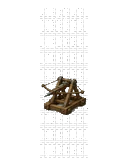
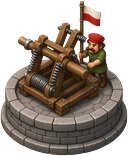
v4.9: new Balista art, slower heavier bolts

diff --git a/game.js b/game.js
@@ -3,7 +3,7 @@
 'use strict';
 (() => {
 // ====== KONFIGURACJA ======
-const V = '4.8';
+const V = '4.9';
 const W = 360, H = 560;
 const Q = new URLSearchParams(location.search);
 const DEBUG = Q.has('debug');
@@ -20,7 +20,7 @@ const TT = {
   smo: {name:'Kocioł smoły', desc:'Spowalnia i parzy wszystkich w pobliżu', cost:[85,75,120], dmg:[5,9,14], rate:[.95,.88,.8], range:[66,74,82], slow:[.3,.4,.5]},
   kus: {name:'Kusznicy', desc:'Bełty przebijają kolczugi (zbroja −50%)', cost:[80,70,115], dmg:[18,28,42], rate:[.85,.74,.6], range:[100,110,120]},
   wil: {name:'Wilcze doły', desc:'Stawia się NA DRODZE. Rani i spowalnia przechodzących', cost:[70,65,110], dmg:[8,14,22], rate:[0,0,0], range:[18,20,22], slow:[.25,.35,.45], road:true, hp:[80,130,200]},
-  bal: {name:'Balista', desc:'Ciężki bełt, duży dystans, jeden cel', cost:[100,90,145], dmg:[40,68,105], rate:[2.1,1.9,1.65], range:[135,150,165]},
+  bal: {name:'Balista', desc:'Ciężki bełt, duży dystans, jeden cel', cost:[100,90,145], dmg:[80,130,200], rate:[4.2,3.8,3.3], range:[135,150,165]},
   mus: {name:'Muszkieterzy', desc:'Szybki ogień z muszkietów', cost:[75,65,115], dmg:[14,22,34], rate:[.62,.5,.38], range:[92,100,110]},
   arm: {name:'Armata', desc:'Wolna, rani wielu, przebija zbroje', cost:[125,105,175], dmg:[36,60,98], rate:[2.3,2.05,1.75], range:[105,115,125], splash:[40,46,54]},
   rus: {name:'Rusznica wałowa', desc:'Daleki strzał w najsilniejszego; przebija dwóch', cost:[115,100,165], dmg:[65,110,175], rate:[1.95,1.8,1.55], range:[150,165,180]},
@@ -30,8 +30,8 @@ const TT = {
   woz: {name:'Wóz bojowy', desc:'Tabor: wytrzymały bloker ze strzelcami', cost:[160,140,210], dmg:[18,28,42], rate:[.8,.7,.58], range:[85,92,100], block:true, hp:[200,340,520]},
 };
 const TKEYS = ['luc','smo','kus','wil','bal','mus','arm','rus','haj','kar','moz','woz'];
-const TW = {luc:[34,36,40], smo:[40,42,44], kus:[34,36,40], wil:[36,38,40], bal:[44,46,50], mus:[42,44,46], arm:[42,44,47], rus:[31,32,33], haj:[38,40,44], kar:[44,46,50], moz:[44,46,50], woz:[48,52,56]};
-const TOPF = {luc:[.4,.36,.3], smo:[.62,.62,.62], kus:[.4,.36,.3], wil:[.5,.5,.5], bal:[.3,.28,.25], mus:[.25,.25,.33], arm:[.2,.2,.21], rus:[.15,.15,.16], haj:[.45,.45,.45], kar:[.25,.22,.2], moz:[.2,.18,.12], woz:[.4,.4,.4]};
+const TW = {luc:[34,36,40], smo:[40,42,44], kus:[34,36,40], wil:[36,38,40], bal:[48,50,54], mus:[42,44,46], arm:[42,44,47], rus:[31,32,33], haj:[38,40,44], kar:[44,46,50], moz:[44,46,50], woz:[48,52,56]};
+const TOPF = {luc:[.4,.36,.3], smo:[.62,.62,.62], kus:[.4,.36,.3], wil:[.5,.5,.5], bal:[.38,.36,.34], mus:[.25,.25,.33], arm:[.2,.2,.21], rus:[.15,.15,.16], haj:[.45,.45,.45], kar:[.25,.22,.2], moz:[.2,.18,.12], woz:[.4,.4,.4]};
 
 // ====== WROGOWIE ======
 const ET = {
@@ -1075,15 +1075,17 @@ function update(dt) {
           damage(best, towerStat(t,'dmg'), 'mus'); burst(best.x, best.y-10, '#fff1a8', 3, 60, 2, .2); sfx('shot');
           smoke(mx, my, 1, 5);
         } else if (t.type === 'luc' || t.type === 'kus' || t.type === 'bal') {
-          const kx = t.x + Math.cos(t.ang)*10, ky = t.gy + Math.sin(t.ang)*10;
+          const bal = t.type === 'bal';
+          const kx = t.x + Math.cos(t.ang)*(bal?14:10), ky = t.gy + Math.sin(t.ang)*(bal?14:10);
           const dist = Math.hypot(best.x - kx, best.y - 12 - ky);
-          const spd = t.type === 'bal' ? 320 : t.type === 'kus' ? 380 : 340;
-          const dur = Math.max(.18, Math.min(.55, dist / spd));
+          const spd = bal ? 240 : t.type === 'kus' ? 380 : 340;
+          const dur = Math.max(bal ? .32 : .18, Math.min(bal ? .85 : .55, dist / spd));
           const lead = best.blockBy || best.stunT > 0 ? 0 : ET[best.type].spd * (best.slowT > 0 ? 1 - best.slowA : 1);
           const aim = lead ? posAt(best.d + lead * dur) : {x: best.x, y: best.y};
-          S.proj.push({sx:kx, sy:ky, tx:aim.x, ty:aim.y - 12, t:0, dur, dmg:towerStat(t,'dmg'), splash: t.type==='bal'?10:6,
-            src: t.type==='bal'?'bal':t.type==='kus'?'kus':'luc', kind: t.type==='luc'?'arrow':'bolt', hi:false});
+          S.proj.push({sx:kx, sy:ky, tx:aim.x, ty:aim.y - 12, t:0, dur, dmg:towerStat(t,'dmg'), splash: bal?16:6,
+            src: bal?'bal':t.type==='kus'?'kus':'luc', kind: t.type==='luc'?'arrow':(bal?'hbolt':'bolt'), hi:bal});
           sfx(t.type==='luc'?'arrow':'twang');
+          if (bal) { t.anim = 1; S.shake = Math.max(S.shake, 1.2); smoke(kx, ky, 3, 6); }
         } else if (t.type === 'kar') {
           const dmg = towerStat(t,'dmg'), splash = towerStat(t,'splash');
           S.tracers.push({x1:mx, y1:my, x2:best.x, y2:best.y-10, life:.1, max:.1, w:4, col:'255,200,100'});
@@ -1117,12 +1119,21 @@ function update(dt) {
     if (Math.random() < .5 && S.parts.length < 330) { const q = projPos(p); S.parts.push({x:q.x, y:q.y, vx:0, vy:-6, life:.35, max:.35, color: p.fall ? '#b8b0a4' : '#cfcac2', size:3, grav:0, kind:'smoke'}); }
     if (p.t >= p.dur) {
       p.done = true;
-      if (p.kind === 'arrow' || p.kind === 'bolt') {
+      if (p.kind === 'arrow' || p.kind === 'bolt' || p.kind === 'hbolt') {
         let hit = null, hd = p.splash + 14;
         for (const e of S.enemies) if (!e.dead) { const dd = Math.hypot(e.x - p.tx, e.y - 12 - p.ty); if (dd < hd) { hd = dd; hit = e; } }
         if (hit) damage(hit, p.dmg, p.src);
         else for (const e of S.enemies) if (!e.dead && Math.hypot(e.x-p.tx, e.y-p.ty) <= p.splash + 8) { damage(e, p.dmg, p.src); break; }
-        burst(p.tx, p.ty, '#d9c29a', 4, 55, 2, .22);
+        if (p.kind === 'hbolt') {
+          burst(p.tx, p.ty, '#c4a574', 10, 90, 3.2, .35);
+          burst(p.tx, p.ty, '#fff1c8', 6, 55, 2.4, .28);
+          smoke(p.tx, p.ty, 5, 8, '#bdb6aa');
+          S.parts.push({x:p.tx, y:p.ty, vx:0, vy:0, life:.28, max:.28, color:'#ffe7a0', size:18, grav:0, kind:'ring'});
+          S.shake = Math.max(S.shake, 2.6);
+          sfx('twang');
+        } else {
+          burst(p.tx, p.ty, '#d9c29a', 4, 55, 2, .22);
+        }
       } else {
         for (const e of S.enemies) if (!e.dead && Math.hypot(e.x-p.tx, e.y-p.ty) <= p.splash) damage(e, p.dmg, p.src);
         const big = p.src === 'moz' || p.fall;
@@ -1199,7 +1210,7 @@ function update(dt) {
 function projPos(p) {
   const k = Math.max(0, Math.min(1, p.t / p.dur));
   if (p.fall) return {x: p.sx + (p.tx - p.sx)*k, y: p.sy + (p.ty - p.sy)*k*k, gx: p.tx, gy: p.ty};
-  const arc = p.kind === 'arrow' ? 28 + p.dur*36 : p.kind === 'bolt' ? 18 + p.dur*28 : (p.hi ? 70 + p.dur*30 : 20 + p.dur*30);
+  const arc = p.kind === 'arrow' ? 28 + p.dur*36 : p.kind === 'hbolt' ? 36 + p.dur*42 : p.kind === 'bolt' ? 18 + p.dur*28 : (p.hi ? 70 + p.dur*30 : 20 + p.dur*30);
   const hgt = Math.sin(k*Math.PI) * arc;
   return {x: p.sx + (p.tx - p.sx)*k, y: p.sy + (p.ty - p.sy)*k - hgt, gx: p.sx + (p.tx - p.sx)*k, gy: p.sy + (p.ty - p.sy)*k + 12*(1-k)};
 }
@@ -1512,6 +1523,16 @@ function drawTower(c, t, time) {
     for (let k = 0; k < 3; k++) { const ph = (time*1.2 + k*.33 + t.seed) % 1; c.globalAlpha = (1-ph)*.6; circ(c, x - 5*s + k*5*s, cy - 2*s - ph*14*s, (1.5 + ph*3)*s, '#4b3b30', null); }
     c.globalAlpha = 1;
     if (anim > .5) { c.strokeStyle = 'rgba(255,140,30,.85)'; c.lineWidth = 2; c.beginPath(); c.ellipse(x, cy, 14 + (1-anim)*12, 5 + (1-anim)*4, 0, 0, 7); c.stroke(); }
+  } else if (type === 'bal') {
+    // odrzut / błysk przy strzale ciężkiego bełtu
+    if (anim > .35) {
+      c.save(); c.translate(x, gy - 2); c.rotate(t.ang);
+      const flash = (anim - .35) / .65;
+      c.globalAlpha = Math.max(0, 1 - flash) * .9;
+      circ(c, 18, 0, 5 + flash * 6, '#fff3a0', null);
+      circ(c, 22, 0, 2.5 + flash * 3, '#ffffff', null);
+      c.globalAlpha = 1; c.restore();
+    }
   } else if (type === 'kus') {
     // kusznik
     soldier(c, x, gy, t.ang, 0, .8, lvl == 2 ? '#7a2a1a' : '#6b4a2a', 0, lvl == 2 ? '#ffcc33' : '#2a62c9');
@@ -1729,20 +1750,32 @@ function render() {
   for (const p of S.proj) {
     if (p.t < 0) continue;
     const q = projPos(p);
-    if (p.kind === 'arrow' || p.kind === 'bolt') {
-      const k = Math.max(0.001, Math.min(1, p.t / p.dur));
+    if (p.kind === 'arrow' || p.kind === 'bolt' || p.kind === 'hbolt') {
       const q2 = projPos(Object.assign({}, p, {t: p.t - 0.016}));
       const ang = Math.atan2(q.y - q2.y, q.x - q2.x);
-      const len = p.kind === 'bolt' ? 14 : 11;
+      const heavy = p.kind === 'hbolt';
+      const len = heavy ? 28 : p.kind === 'bolt' ? 14 : 11;
+      const thick = heavy ? 4.2 : p.kind === 'bolt' ? 2.4 : 1.8;
       c.save(); c.translate(q.x, q.y); c.rotate(ang);
-      c.strokeStyle = p.kind === 'bolt' ? '#3a2a14' : '#5a3417'; c.lineWidth = p.kind === 'bolt' ? 2.4 : 1.8;
-      c.beginPath(); c.moveTo(-len*.45, 0); c.lineTo(len*.55, 0); c.stroke();
-      c.fillStyle = p.kind === 'bolt' ? '#6a4a28' : '#c41e3a';
-      c.beginPath(); c.moveTo(len*.55, 0); c.lineTo(len*.2, -2.4); c.lineTo(len*.2, 2.4); c.fill();
-      c.strokeStyle = '#e8e0cc'; c.lineWidth = 1;
-      c.beginPath(); c.moveTo(-len*.45, 0); c.lineTo(-len*.2, -2); c.moveTo(-len*.45, 0); c.lineTo(-len*.2, 2); c.stroke();
+      // shaft
+      c.strokeStyle = heavy ? '#4a3018' : p.kind === 'bolt' ? '#3a2a14' : '#5a3417';
+      c.lineWidth = thick; c.lineCap = 'round';
+      c.beginPath(); c.moveTo(-len*.48, 0); c.lineTo(len*.5, 0); c.stroke();
+      if (heavy) {
+        c.strokeStyle = '#6b4a28'; c.lineWidth = 2.2;
+        c.beginPath(); c.moveTo(-len*.4, 0); c.lineTo(len*.35, 0); c.stroke();
+      }
+      // tip
+      c.fillStyle = heavy ? '#2a2a2e' : p.kind === 'bolt' ? '#6a4a28' : '#c41e3a';
+      const tip = len*.55, back = heavy ? len*.18 : len*.2, hw = heavy ? 4.2 : 2.4;
+      c.beginPath(); c.moveTo(tip, 0); c.lineTo(back, -hw); c.lineTo(back, hw); c.fill();
+      // fletching
+      c.strokeStyle = heavy ? '#c41e3a' : '#e8e0cc'; c.lineWidth = heavy ? 2 : 1;
+      const ft = -len*.45;
+      c.beginPath(); c.moveTo(ft, 0); c.lineTo(ft + (heavy?7:3.2), - (heavy?4.5:2));
+      c.moveTo(ft, 0); c.lineTo(ft + (heavy?7:3.2), (heavy?4.5:2)); c.stroke();
       c.restore();
-      c.fillStyle = 'rgba(0,0,0,.18)'; c.beginPath(); c.ellipse(q.gx, q.gy + 2, 3, 1.4, 0, 0, 7); c.fill();
+      c.fillStyle = 'rgba(0,0,0,.22)'; c.beginPath(); c.ellipse(q.gx, q.gy + 2, heavy?5:3, heavy?2.2:1.4, 0, 0, 7); c.fill();
     } else {
       const r = p.hi ? 5.5 : 4.5;
       c.fillStyle = 'rgba(0,0,0,.22)'; c.beginPath(); c.ellipse(q.gx, q.gy + 3, r, r*.45, 0, 0, 7); c.fill();

diff --git a/index.html b/index.html
@@ -5,8 +5,8 @@
 <meta name="viewport" content="width=device-width,initial-scale=1,maximum-scale=1,user-scalable=no,viewport-fit=cover">
 <meta name="theme-color" content="#2a1a0e">
 <title>OBRONA POLSKI – Bohaterowie</title>
-<link rel="preload" href="fonts/baloo2.woff2?v=4.8" as="font" type="font/woff2" crossorigin>
-<link rel="stylesheet" href="style.css?v=4.8">
+<link rel="preload" href="fonts/baloo2.woff2?v=4.9" as="font" type="font/woff2" crossorigin>
+<link rel="stylesheet" href="style.css?v=4.9">
 </head>
 <body>
 <div id="app">
@@ -68,12 +68,12 @@
   <div id="pHow" class="panel hidden"><div class="card how">
     <h2>Jak grać</h2>
     <p>Broń polskich twierdz w czterech słynnych bitwach. Nie wpuść wrogów za mury!</p>
-    <div class="tw"><img src="img/t_luc0.webp?v=4.8" alt=""><div><b>Łucznicy</b> – tanie, szybkie strzały (start).</div></div>
-    <div class="tw"><img src="img/t_smo0.webp?v=4.8" alt=""><div><b>Kocioł smoły</b> – spowalnia i parzy (start).</div></div>
-    <div class="tw"><img src="img/t_wil0.webp?v=4.8" alt=""><div><b>Wilcze doły</b> – stawiasz NA DRODZE; ranią i spowalniają.</div></div>
-    <div class="tw"><img src="img/t_mus0.webp?v=4.8" alt=""><div><b>Muszkieterzy</b> – szybki ogień.</div></div>
-    <div class="tw"><img src="img/t_arm0.webp?v=4.8" alt=""><div><b>Armata</b> – wolna, rani wielu.</div></div>
-    <div class="tw"><img src="img/t_haj0.webp?v=4.8" alt=""><div><b>Hajducy / Wóz</b> – blokują wrogów na drodze.</div></div>
+    <div class="tw"><img src="img/t_luc0.webp?v=4.9" alt=""><div><b>Łucznicy</b> – tanie, szybkie strzały (start).</div></div>
+    <div class="tw"><img src="img/t_smo0.webp?v=4.9" alt=""><div><b>Kocioł smoły</b> – spowalnia i parzy (start).</div></div>
+    <div class="tw"><img src="img/t_wil0.webp?v=4.9" alt=""><div><b>Wilcze doły</b> – stawiasz NA DRODZE; ranią i spowalniają.</div></div>
+    <div class="tw"><img src="img/t_mus0.webp?v=4.9" alt=""><div><b>Muszkieterzy</b> – szybki ogień.</div></div>
+    <div class="tw"><img src="img/t_arm0.webp?v=4.9" alt=""><div><b>Armata</b> – wolna, rani wielu.</div></div>
+    <div class="tw"><img src="img/t_haj0.webp?v=4.9" alt=""><div><b>Hajducy / Wóz</b> – blokują wrogów na drodze.</div></div>
     <p class="phint">Do bitwy bierzesz bohatera, 1 atak specjalny i do 4 odblokowanych broni. Po wygranej możesz wejść w <b>Ostatni bastion</b> (nieskończone fale).</p>
     <ul>
       <li>Dotknij <b>kamienne pole</b>, by postawić wieżę; dotknij wieży, by ją ulepszyć.</li>
@@ -175,6 +175,6 @@
     <button class="mbtn small" data-act="back">Wróć</button>
   </div></div>
 </div>
-<script src="game.js?v=4.8"></script>
+<script src="game.js?v=4.9"></script>
 </body>
 </html>
